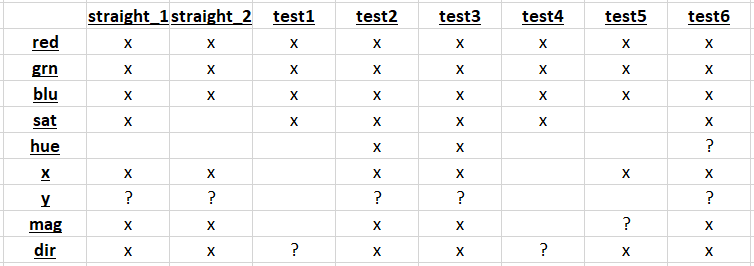
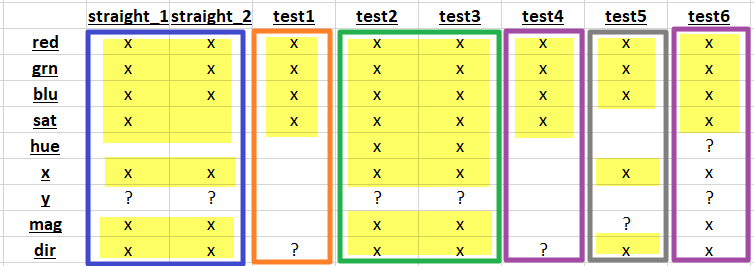
Updated.

diff --git a/README.md b/README.md
@@ -41,6 +41,8 @@ Project was developed using the following environment:
 [all_transformed]: media/all_transformed.png
 [cal1_input]: calibration_images/calibration1.jpg
 [process_py]: process.py
+[project_1]: process_output/test_videos/project_video.mp4
+[challenge_1]: process_output/challenge_videos/challenge_video.mp4
 [challenge_2]: challenge_videos/harder_challenge_video.mp4
 
 [straight1_input]: process_output/test_images/filter/by_name/straight_lines1/straight_lines1_input.png
@@ -142,27 +144,6 @@ Processing: project_video.mp4
 [...]
 ```
 
-The final challenge video ([harder_challenge_video.mp4][challenge_2]) proved unreadable by the chosen `VideoFileClip` API, as shown:
-```
-Processing: harder_challenge_video.mp4
-Traceback (most recent call last):
-  File "C:\Users\mcoyo\.IntelliJIdea2017.3\config\plugins\python\helpers\pydev\pydev_run_in_console.py", line 53, in run_file
-    pydev_imports.execfile(file, globals, locals)  # execute the script
-  File "C:\Users\mcoyo\.IntelliJIdea2017.3\config\plugins\python\helpers\pydev\_pydev_imps\_pydev_execfile.py", line 18, in execfile
-    exec(compile(contents+"\n", file, 'exec'), glob, loc)
-  File "E:/Projects/Work/Learning/CarND/CarND-Advanced-Lane-Lines/process.py", line 892, in <module>
-    execute_process()
-
-[...]
-
-OSError: [WinError 6] The handle is invalid
-Backend Qt4Agg is interactive backend. Turning interactive mode on.
-PyDev console: using IPython 6.2.1
-Python 3.5.4 | packaged by conda-forge | (default, Dec 18 2017, 06:53:03) [MSC v.1900 64 bit (AMD64)] on win32
-```
-
-This was not investigated further due to project time constraints.
-
 ---
 
 ## Rubric Points
@@ -198,7 +179,7 @@ Camera calibration is provided by the `process_camera_calibration` function, as 
         1. Un-distort input image using `cv2.undistort()`
         1. For reference/verification, create a transform matrix and transform to common interior coordinates
         
-Example follow (calibration image #10). This example is particularly interesting due to circular artifacts generated in the un-distorted image as a by-product of radial correction.
+Examples follow (calibration image #10). This example is particularly interesting due to circular artifacts generated in the un-distorted image as a by-product of radial correction.
 
 Input:
 
@@ -232,7 +213,7 @@ Calibration image #1 was unusuable, probably due to its outer edges being clippe
 
 ### 3. Pipeline (Test Images)
 
-Test image processing is provided by the `process_image_files` function, delegating to `process_video_frame`/other functions to ensure common code for still image/video frame processing.
+Test image processing is provided by the `process_image_files` function, delegating to `filter_street_image`, `fit_lane_lines` and other functions common to both image and video processing.
 
 #### 3.1. Provide an example of a distortion-corrected image.
 
@@ -253,9 +234,63 @@ Straight lines image #1 (un-distorted):
 
 _A method or combination of methods (i.e., color transforms, gradients) has been used to create a binary image containing likely lane pixels. There is no "ground truth" here, just visual verification that the pixels identified as part of the lane lines are, in fact, part of the lines. Example binary images should be included in the writeup (or saved to a folder) and submitted with the project._
 
-Image filter matrix:
+A filtering scheme was established as follows:
+1. Reflectance- (red/green/blue, hue/saturation/lightness) and gradient-based (x/y/magnitude/directional Sobel) filters were applied.
+1. Filters were individually refined for utility in _some subset_ of test images.
+1. Performance was documented in the matrix shown below (x = useful, ? = marginal, <blank> = not useful (or) degrading)
+1. Image/filter set groupings were identified, as shown:
+
+Gaussian blurring was applied to all gradient-based (Sobel) filters in an attempt to reduce noise pixels.
+
+Image filter matrix (colors = groups, highlights = best filters w/in group):
 
 ![image_filter_matrix]
+
+Summarized as follows:
+1. Straight #1, Straight #2 (straight, open lanes; asphalt)
+    1. Red, Green, Blue
+    1. Saturation, lightness (not shown in matrix)
+    1. X, magnitude, and directional Sobel
+1. Test #1 (curved, open lanes; concrete)
+    1. Red, Green, Blue
+    1. Saturation and lightness
+1. Test #2, Test #3 (curved open lanes; asphalt)
+    1. Red, Green, Blue
+    1. Saturation, lightness, hue
+    1. X, magnitude, and directional Sobel
+1. Test #4, Test #6 (curved, partly shaded lanes; asphalt/concrete transition)
+    1. Red, Green, Blue
+    1. Saturation
+1. Test #5 (curved, very shaded lanes; asphalt/concrete transition)
+    1. Red, Green, Blue
+    1. X and directional Sobel
+    
+At this point it was speculated sets of filters could be logically aligned with these groups (filters in a group &-ed, all groups |-ed). Attempts at implementation were limited by project time constraints, specifically due to:
+* Fine-tuning required for gradient-based filters in circumstances such as group #4 (above)
+* Deconflicting permutations of filters categorically common to multiple groups (e.g., red for all groups) but requiring different thresholds, Sobel filter kernels, etc. for exclusive subsets
+
+Instead, the following was implemented in the `filter_street_image` function to maximize best- and average-case performance:
+
+```python
+combined_bin_image[(np.sum([red_bin_image, grn_bin_image, blu_bin_image,
+                            sat_bin_image, hue_bin_image, lgt_bin_image,
+                            (x_bin_image | y_bin_image),
+                            (mag_bin_image | dir_bin_image)], axis=0) > 2)] = 1
+```  
+
+...with all reflectance-based filters summed with x/y and magnitude/directional Sobel filters, the latter two halved in significance to minimize their degrading effects (as configured) on outlier sections such as concrete overpasses. Once summed, only pixels with a score of 3 or greater would be forwarded for line detection/fitting.
+
+It is speculated picking suitable combinations of filters would be a good task for a neural network-driven pre-filtering strategy, as follows:
+1. Preemptively: 
+    1. Determine a fixed number of distinct, manageable variations of lane imagery (e.g., by lane curvature/position/surface, sun angle/cloud cover, fraction/density of shadow)
+    1. Manually establish general- to best-case filter combinations for each variation
+    1. Manually classify examples of each image variation according to these filter combinations 
+    1. Train/validate/test neural networks on these and more examples
+1. On board the vehicle:
+    1. Classify and apply filter combinations in order of confidence (e.g., top-N selections)
+    1. Rank and select results based on fitted lane line conformance with previous, near-term results
+
+The following examples show the breadth of filter results across multiple conditions. The "combined_binary" images represent results forwarded for lane detection/fitting.
 
 Straight lines image #1 (filtered):
 
@@ -277,6 +312,8 @@ Test image #5 (filtered):
 
 _OpenCV function or other method has been used to correctly rectify each image to a "birds-eye view". Transformed images should be included in the writeup (or saved to a folder) and submitted with the project._
 
+Perspective transformation was implemented in the `transform_street_image` function. This function computes or re-uses previously-computed to/from transformation matrices and applies them to input images.
+
 Straight lines image #1 (sharpened):
 
 ![straight1_sharpened]
@@ -288,6 +325,20 @@ Straight lines image #1 (transformed):
 #### 3.4. Describe how (and identify where in your code) you identified lane-line pixels and fit their positions with a polynomial.
 
 _Methods have been used to identify lane line pixels in the rectified binary image. The left and right line have been identified and fit with a curved functional form (e.g., spine or polynomial). Example images with line pixels identified and a fit overplotted should be included in the writeup (or saved to a folder) and submitted with the project._
+
+For image and video processing:
+* Principal lane line detection/fitting was implemented in the `fit_lane_lines` function based on a histogram-driven, sliding-window algorithm provided with project source material. 
+
+For video processing, specifically:
+* Adjustments to previously-established lane line fits was implemented in the `refit_lane_lines` function, based on a margin-expansion algorithm also provided with project source material.
+* Fitted lane lines are discarded whenever (a) there are usable, existing ones and (b) new ones cross the frame vertical center line. This was implemented in the `process_video_frame` function.
+* Fitted lane lines are averaged, frame-by-frame for 10 (configurable) frames. This was implemented in the `process_video_frame` function and `RunningMean` class. 
+
+The following input/output image pairs illustrate lane detection/fitting under different conditions, as follows:
+ * Red pixels: left lanes
+ * Blue pixels: right lanes
+ * Green boxes: detection windows
+ * Yellow lines: fitted results
 
 Straight lines image #1 (input):
 
@@ -325,9 +376,40 @@ Test image #5 (output):
 
 _Here the idea is to take the measurements of where the lane lines are and estimate how much the road is curving and where the vehicle is located with respect to the center of the lane. The radius of curvature may be given in meters assuming the curve of the road follows a circle. For the position of the vehicle, you may assume the camera is mounted at the center of the car and the deviation of the midpoint of the lane from the center of the image is the offset you're looking for. As with the polynomial fitting, convert from pixels to meters._
 
+Lane position estimation is implemented in the `get_center_diff_in_m` function and is based on project source material. Position estimation relies principally on input image dimensions and previously-established left and right lane fits. 
+
+```python
+def get_center_diff_in_m(input_image, left_fit, right_fit):
+    """Get distance from lane center in meters."""
+    width_in_px = input_image.shape[1]
+    height_in_px = input_image.shape[0]
+    bottom_left = get_curve_pixels(left_fit, height_in_px)
+    bottom_right = get_curve_pixels(right_fit, height_in_px)
+    lane_center = int(bottom_left + (bottom_right - bottom_left) / 2.0)
+    output_diff = int(width_in_px / 2.0) - lane_center
+    return output_diff
+```
+
+Lane curvature estimation is implemented in the `get_curve_radius_in_m` function and is based on project source material. Curvature estimation relies principally on generated lane line pixels.
+
+```python
+def get_curve_radius_in_m(curve_x_pixels, curve_y_pixels, meters_per_px):
+    """Get curve radius in meters from supplied x/y pixels."""
+    curve_scaled_pixels = np.polyfit(curve_y_pixels * meters_per_px[0], curve_x_pixels * meters_per_px[1], 2)
+    output_radius = ((1 + (2 * curve_scaled_pixels[0] * np.max(curve_y_pixels) * meters_per_px[0]
+                           + curve_scaled_pixels[1]) ** 2) ** 1.5) / np.absolute(2 * curve_scaled_pixels[0])
+    return output_radius
+```
+
+Both functions also rely on on estimated pixel/meter conversion ratios for X and Y axes, also based on project source material.
+
+Results of both functions should be averaged for best performance but were not in this implementation due to project time constraints.
+
 #### 3.6. Provide an example image of your result plotted back down onto the road such that the lane area is identified clearly.
 
 _The fit from the rectified image has been warped back onto the original image and plotted to identify the lane boundaries. This should demonstrate that the lane boundaries were correctly identified. An example image with lanes, curvature, and position from center should be included in the writeup (or saved to a folder) and submitted with the project._
+
+This was not implemented for test image processing but was for video frames. 
 
 Project video frame #400 (result):
 
@@ -337,9 +419,36 @@ Project video frame #400 (result):
 
 ### 4. Pipeline (Video)
 
+Video processing is provided by the `process_video_files` function, delegating to `process_video_frame` (providing most of the video pipeline), then `filter_street_image`, `fit_lane_lines` and other functions common to both image and video processing.
+
 #### 4.1. Provide a link to your final video output. Your pipeline should perform reasonably well on the entire project video (...).
 
 _The image processing pipeline that was established to find the lane lines in images successfully processes the video. The output here should be a new video where the lanes are identified in every frame, and outputs are generated regarding the radius of curvature of the lane and vehicle position within the lane. The pipeline should correctly map out curved lines and not fail when shadows or pavement color changes are present. The output video should be linked to in the writeup and/or saved and submitted with the project._
+
+See [project_video.mp4][project_1] for final project video. This proved to be a successful application of this pipeline.
+
+See [challenge_video.mp4][challenge_1] for challenge video #1. This was not as successful as the project video but illuminating. Overall performance was poor due to filter configurations uncalibrated for heavy shadows across (mostly) the left lane line. 
+
+The final challenge video ([harder_challenge_video.mp4][challenge_2]) proved unreadable by the chosen `VideoFileClip` API, as shown:
+```
+Processing: harder_challenge_video.mp4
+Traceback (most recent call last):
+  File "C:\Users\mcoyo\.IntelliJIdea2017.3\config\plugins\python\helpers\pydev\pydev_run_in_console.py", line 53, in run_file
+    pydev_imports.execfile(file, globals, locals)  # execute the script
+  File "C:\Users\mcoyo\.IntelliJIdea2017.3\config\plugins\python\helpers\pydev\_pydev_imps\_pydev_execfile.py", line 18, in execfile
+    exec(compile(contents+"\n", file, 'exec'), glob, loc)
+  File "E:/Projects/Work/Learning/CarND/CarND-Advanced-Lane-Lines/process.py", line 892, in <module>
+    execute_process()
+
+[...]
+
+OSError: [WinError 6] The handle is invalid
+Backend Qt4Agg is interactive backend. Turning interactive mode on.
+PyDev console: using IPython 6.2.1
+Python 3.5.4 | packaged by conda-forge | (default, Dec 18 2017, 06:53:03) [MSC v.1900 64 bit (AMD64)] on win32
+```
+
+This was not investigated further due to project time constraints.
 
 ---
 
@@ -348,3 +457,7 @@ _The image processing pipeline that was established to find the lane lines in im
 #### 5.1. Briefly discuss any problems / issues you faced in your implementation of this project (...).
 
 _Discussion includes some consideration of problems/issues faced, what could be improved about their algorithm/pipeline, and what hypothetical cases would cause their pipeline to fail._
+
+As discussed above, the principal challenge (as approached) was filter selection and configuration. 
+
+Application of additional filter variations/types, convolutions, and other techniques all offer potential improvements for this capability. 
